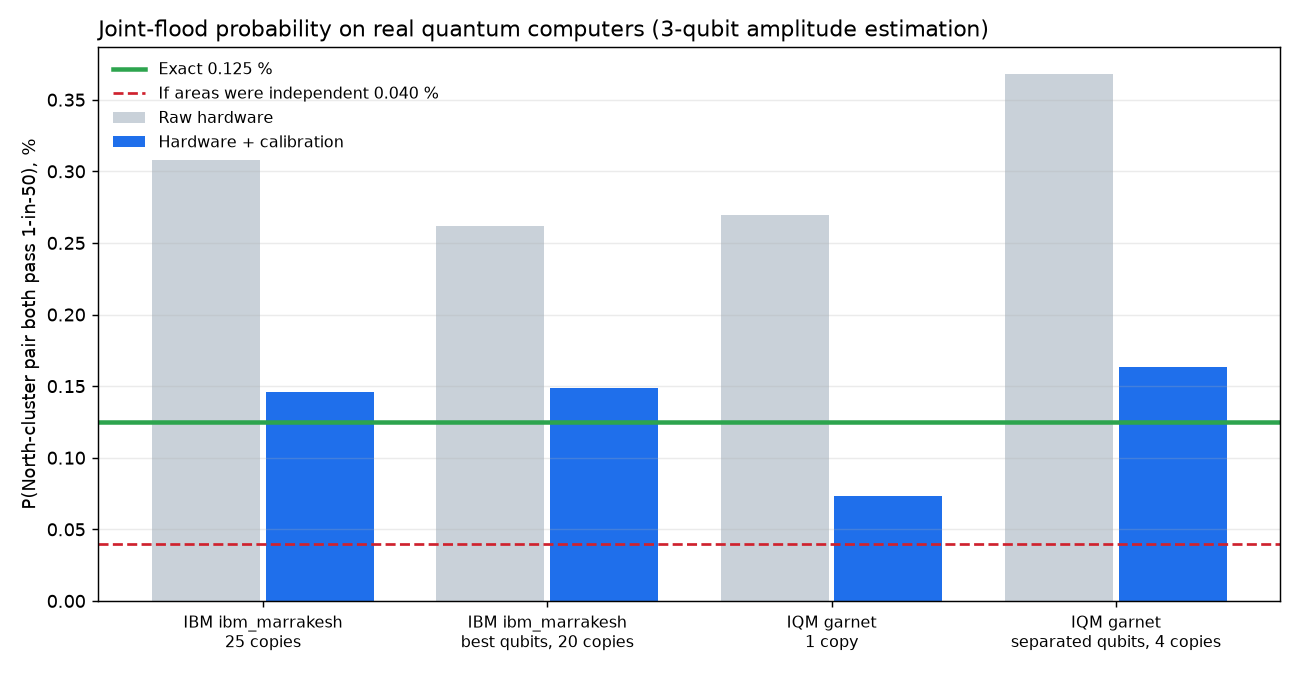
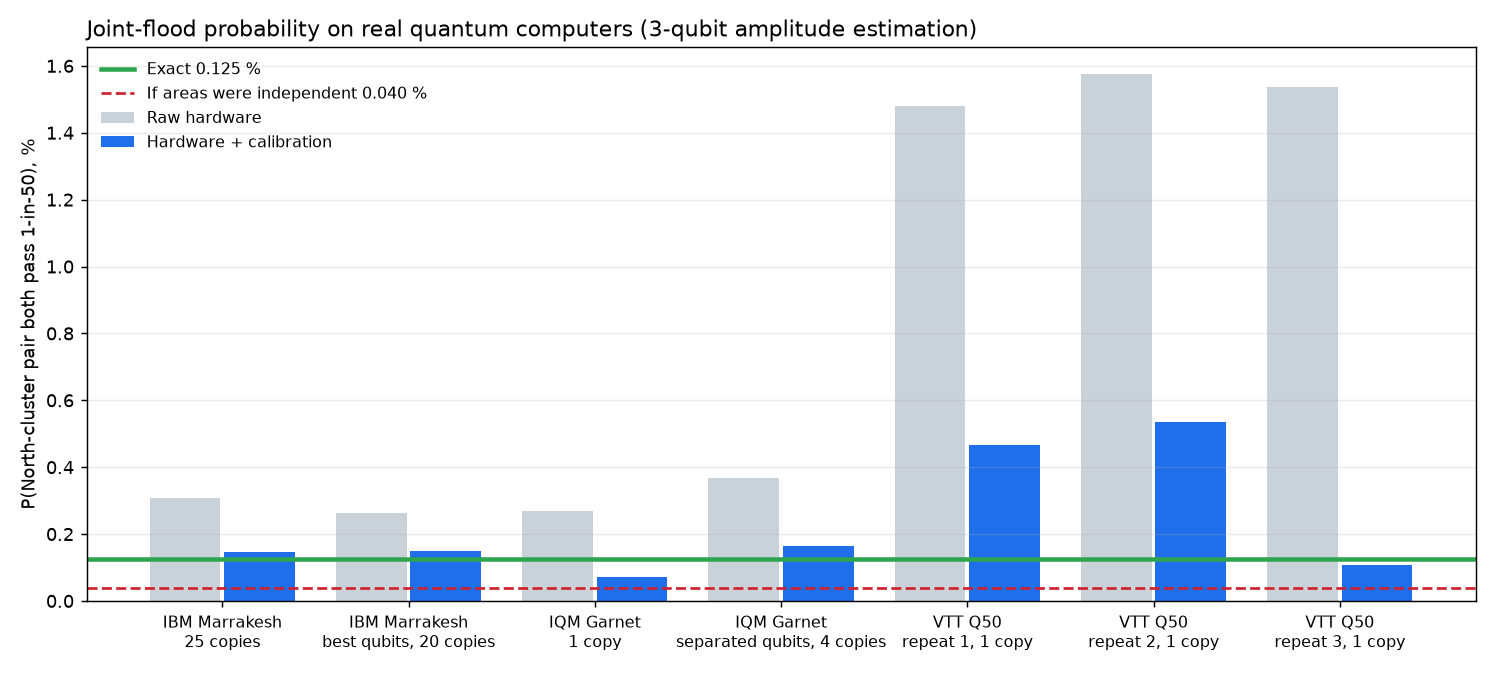
Hardware summary + bootstrap CI: VTT Q50 repeats (per-repeat, mean/range, CIs) and Q50 14-area loader

diff --git a/scripts/hardware_summary.py b/scripts/hardware_summary.py
@@ -1,4 +1,4 @@
-"""Summarise every real-hardware run in out/runs/ into out/HARDWARE_RESULTS.md and out/hardware_results.png."""
+"""Summarise every real-hardware run (IBM, IQM Garnet/Emerald, VTT Q50) in out/runs/ into out/HARDWARE_RESULTS.md and out/hardware_results.png."""
 
 from __future__ import annotations
 
@@ -17,13 +17,15 @@ for f in sorted(glob.glob(str(OUT / "runs" / "*.analysis.json"))):
     run = json.loads(Path(f.replace(".analysis.json", ".json")).read_text())
     for inst, s in json.loads(Path(f).read_text()).items():
         rows.append({
-            "file": name.replace(".analysis.json", ""), "device": run.get("device", run["backend"]),
-            "platform": "IBM" if run["backend"] == "ibm" else ("IQM" if run["backend"] == "iqm" else run["backend"].upper()),
+            "file": name.replace(".analysis.json", ""),
+            "device": "Q50" if run["backend"] == "q50" else run.get("device", run["backend"]),
+            "platform": {"ibm": "IBM", "iqm": "IQM", "q50": "VTT"}.get(run["backend"], run["backend"].upper()),
             "job": ", ".join(run.get("jobs", [])), "created": run["created_utc"], "instance": inst,
             "copies": s.get("copies", 1), "best_qubits": bool(run.get("layout_triples")), "ks": run["ks"],
             "shots": s["shots"], "exact": s["exact"], "raw": s["raw_mlae"], "aware": s["noise_aware_mlae"],
             "per_copy": s.get("noise_aware_per_copy_mlae"), "k0": s["k0_only"],
             "gates": s["two_qubit_gates_by_k"], "mc_same_queries": s["mc_rmse_same_queries"],
+            "gain": s.get("gain_by_k", {}), "offset": s.get("offset_by_k", {}),
         })
 
 pct = lambda x: "–" if x is None else f"{100 * x:.3f} %"  # noqa: E731
@@ -50,6 +52,8 @@ md += ["", "Job ids:", *[f"- {r['platform']} {r['device']} {r['created']}: `{r['
        "- Classical Monte Carlo at the same budget is still more precise. No quantum advantage is claimed.",
        "- 'Best qubits' on IBM uses today's calibration data; IQM publishes none through this API, so there the copies are "
        "only placed on well-separated qubits. The first IQM run had 1 copy (small sample, ±0.05 pp shot noise).",
+       "- VTT Q50 (three repeats, section below) is not there yet: raw readings ~12× exact, amplified circuits keep "
+       "little signal, and the calibrated estimate is not reproducible between repeats.",
        "- The independence line (0.040 %) is what P(both) would be if the two areas flooded independently: every run, "
        "even raw, is far above it, i.e. the hardware reproduces the co-flooding."]
 for f in sorted(glob.glob(str(OUT / "runs" / "loader-iqm-emerald-*.json")) + sorted(glob.glob(str(OUT / "runs" / "loader-ibm-*.json"))) + sorted(glob.glob(str(OUT / "runs" / "loader-q50-*.json")))):
@@ -58,10 +62,19 @@ for f in sorted(glob.glob(str(OUT / "runs" / "loader-iqm-emerald-*.json")) + sor
         continue
     lvl = r.get("level", 0.1)
     lvl_txt = "1-in-10" if abs(lvl - 0.1) < 1e-9 else ("1-in-50" if abs(lvl - 0.02) < 1e-9 else f"p={lvl}")
-    md += ["", f"## Full-scale loader at the {lvl_txt} level: all 14 areas on {r['device']} ({r['qubits']} qubits, {r['two_qubit_gates']} two-qubit gates)",
-           f"Job `{r['jobs'][0]}`, {r['shots']:,} shots, readout flip rates {100*r['readout_p01']:.1f} % / {100*r['readout_p10']:.1f} %. "
-           + ("Chart: `out/loader_emerald.png`." if lvl_txt == "1-in-10" else
-            "At this rare level, gate noise creates false triggers that swamp the true signal: the measured limit of today's hardware."), "",
+    is_q50 = r["backend"] == "q50"
+    if is_q50:
+        note = (f"Same circuit as the Emerald 1-in-10 run, on VTT Q50 (file `{Path(f).name}`). P(≥4 areas): raw "
+                f"{100*r['p_at_least_k_raw'][4]:.1f} %, readout-corrected {100*r['p_at_least_k_readout_corrected'][4]:.1f} % vs exact "
+                f"{100*r['p_at_least_k_exact'][4]:.1f} % (independence {100*r['p_at_least_k_independent'][4]:.1f} %). "
+                "Gate and readout noise dominate on Q50 at this size: the measured limit of this hardware today.")
+    elif lvl_txt == "1-in-10":
+        note = "Chart: `out/loader_emerald.png`."
+    else:
+        note = "At this rare level, gate noise creates false triggers that swamp the true signal: the measured limit of today's hardware."
+    dev = "VTT Q50" if is_q50 else r["device"]
+    md += ["", f"## Full-scale loader at the {lvl_txt} level: all 14 areas on {dev} ({r['qubits']} qubits, {r['two_qubit_gates']} two-qubit gates)",
+           f"Job `{r['jobs'][0]}`, {r['shots']:,} shots, readout flip rates {100*r['readout_p01']:.1f} % / {100*r['readout_p10']:.1f} %. " + note, "",
            (f"| k areas over {lvl_txt} | Hardware (readout-corrected) | Exact model | Independence | Observed 1961–2025 |"),
            "|---|---|---|---|---|"]
     obsd = {}
@@ -71,6 +84,37 @@ for f in sorted(glob.glob(str(OUT / "runs" / "loader-iqm-emerald-*.json")) + sor
     for k in range(2, 8):
         md.append(f"| ≥{k} | {100*r['p_at_least_k_readout_corrected'][k]:.1f} % | {100*r['p_at_least_k_exact'][k]:.1f} % | "
                   f"{100*r['p_at_least_k_independent'][k]:.2f} % | {('%.1f %%' % (100*obsd[k])) if k in obsd else '–'} |")
+q50 = [r for r in rows if r["platform"] == "VTT" and r["instance"].startswith("A3")]
+if q50:
+    est = [r["aware"] for r in q50]
+    g1 = [r["gain"].get("1") for r in q50]
+    offs = " / ".join(f"{r['offset'].get('0', 0):.3f}" for r in q50)
+    other_g1 = [s["gain_by_k"]["1"] for f in sorted(glob.glob(str(OUT / "runs" / "*.analysis.json")))
+                if Path(f).name.startswith(("ibm-ibm", "iqm-garnet", "product-iqm-emerald"))
+                for i, s in json.loads(Path(f).read_text()).items() if i.startswith("A3") and "1" in s.get("gain_by_k", {})]
+    md += ["", "## VTT Q50: three repeats of the 3-qubit pair circuit",
+           f"Run through the LUMI hackathon module. Same North-cluster pair circuit as above (exact {pct(q50[0]['exact'])}), "
+           f"1 copy, {q50[0]['shots'] // len(q50[0]['ks']):,} shots per circuit, k = {', '.join(map(str, q50[0]['ks']))}, "
+           "submitted three times in a row.", "",
+           "| Repeat | Job | k=0 rate | Raw | Calibrated | Bootstrap 90 % CI | Gain by k | Zero offset at k=0 |",
+           "|---|---|---|---|---|---|---|---|"]
+    bci = OUT / "bootstrap_ci.json"  # scripts/bootstrap_ci.py
+    bj = json.loads(bci.read_text()) if bci.exists() else {}
+    for i, r in enumerate(q50, 1):
+        ci = bj.get(f"{(r['file'] + '.json')[:28]}|{r['instance'][:14]}", {}).get("ci90")
+        ci_txt = f"{100*ci[0]:.2f}–{100*ci[1]:.2f} %" if ci else "–"
+        md.append(f"| {i} (`{r['file']}`) | `{r['job']}` | {pct(r['k0'])} | {pct(r['raw'])} | **{pct(r['aware'])}** | {ci_txt} | "
+                  f"{' / '.join(f'{v:.2f}' for v in r['gain'].values())} | {r['offset'].get('0', 0):.4f} |")
+    md += ["", f"Calibrated: mean **{pct(sum(est) / len(est))}**, range **{pct(min(est))} – {pct(max(est))}** vs exact "
+           f"{pct(q50[0]['exact'])}. Raw {pct(min(r['raw'] for r in q50))} – {pct(max(r['raw'] for r in q50))}.",
+           "- **Not reproducible yet.** The three calibrated estimates spread about 5×; the one close to exact is luck, not "
+           "precision. The driver is the zero-calibration offset at k=0, which moved between repeats "
+           f"({offs}).",
+           f"- **Amplification barely survives.** At k=1 (27 two-qubit gates) Q50 kept {min(g1):.2f}–{max(g1):.2f} of the signal; "
+           f"IBM, IQM Garnet and Emerald kept {min(other_g1):.2f}–{max(other_g1):.2f} on the same circuit. At k=2 almost nothing is left.",
+           "- An earlier 4-copy best-qubit attempt (`q50-20261009T144440Z`, job "
+           "`d02bd3b5-ca4a-48f1-9003-da506d4b7607`, 4,000 shots) was submitted but result retrieval failed "
+           "(BadRequestError): no data."]
 snow = sorted(glob.glob(str(OUT / "runs" / "product-iqm-emerald-*.analysis.json")))
 if snow:
     d = json.loads(Path(snow[-1]).read_text())
@@ -107,9 +151,12 @@ matplotlib.use("Agg")
 import matplotlib.pyplot as plt  # noqa: E402
 
 a3 = [r for r in rows if r["instance"].startswith("A3")]
-fig, ax = plt.subplots(figsize=(10, 5.2))
-labels = [f"{r['platform']} {r['device']}\n{('best qubits, ' if r['platform'] == 'IBM' else 'separated qubits, ') if r['best_qubits'] else ''}{r['copies']} cop{'ies' if r['copies'] > 1 else 'y'}"
+fig, ax = plt.subplots(figsize=(11.5, 5.2))
+vtt = [x for x in a3 if x["platform"] == "VTT"]
+rep_txt = lambda r: f"repeat {vtt.index(r) + 1}, " if r in vtt else ""  # noqa: E731
+labels = [f"{r['platform']} {r['device']}\n{rep_txt(r)}{('best qubits, ' if r['platform'] == 'IBM' else 'separated qubits, ') if r['best_qubits'] else ''}{r['copies']} cop{'ies' if r['copies'] > 1 else 'y'}"
           for r in a3]
+labels = [lab.replace("ibm_marrakesh", "Marrakesh").replace("garnet", "Garnet") for lab in labels]
 x = range(len(a3))
 ax.bar([i - 0.2 for i in x], [100 * r["raw"] for r in a3], 0.38, color="#c9d1d9", label="Raw hardware")
 ax.bar([i + 0.2 for i in x], [100 * r["aware"] for r in a3], 0.38, color="#1f6feb",

diff --git a/scripts/bootstrap_ci.py b/scripts/bootstrap_ci.py
@@ -75,4 +75,10 @@ if snow:
                                        "exact": res["emerald snow high"]["exact"]/res["emerald snow low"]["exact"]}
     print("snow ratio high/low:", res["snow_ratio_high_over_low"])
     do(f, "A3_kittila_ivalo_both_clim", "emerald snow normal")  # last, so the intervals above keep their RNG stream
+for f in sorted(f for f in runs if f.startswith("q50-")):  # VTT Q50 repeats; after the rest so their RNG stream is unchanged
+    run = json.loads(Path(runs[f]).read_text())
+    if not any("counts" in c for c in run["circuits"]):
+        continue          # q50-20261009T144440Z: result retrieval failed, no counts
+    for inst in sorted({c["instance"] for c in run["circuits"]}):
+        do(f, inst, f"{f[:28]}|{inst[:14]}")
 (ROOT/"out"/"bootstrap_ci.json").write_text(json.dumps(res, indent=2, default=float))

diff --git a/out/HARDWARE_RESULTS.md b/out/HARDWARE_RESULTS.md
@@ -10,18 +10,25 @@ Generated by `scripts/hardware_summary.py` from `out/runs/`. Exact values come f
 | IQM garnet (20261008T1821) | North-cluster pair, both | 1 | 18,000 | 0.125 % | 0.269 % | **0.073 %** | 0.183 % | 4/29/50 | ±0.015 pp |
 | IQM garnet (20261008T1821) | ≥2 of 3 North-cluster rivers | 1 | 18,000 | 0.359 % | 1.070 % | **0.432 %** | 0.967 % | 6/43/83 | ±0.026 pp |
 | IQM garnet (20261008T1825) best qubits | North-cluster pair, both | 4 | 120,000 | 0.125 % | 0.368 % | **0.164 %** | 0.335 % | 4/26/53 | ±0.006 pp |
+| VTT Q50 (20261009T1450) | North-cluster pair, both | 1 | 6,000 | 0.125 % | 1.479 % | **0.465 %** | 0.750 % | 4/27/46 | ±0.026 pp |
+| VTT Q50 (20261009T1451) | North-cluster pair, both | 1 | 6,000 | 0.125 % | 1.577 % | **0.534 %** | 0.800 % | 4/27/46 | ±0.026 pp |
+| VTT Q50 (20261009T1451) | North-cluster pair, both | 1 | 6,000 | 0.125 % | 1.536 % | **0.107 %** | 0.800 % | 4/27/46 | ±0.026 pp |
 
 Job ids:
 - IBM ibm_marrakesh 20261008T170341Z: `db3sssqmb58s7388bb00`
 - IBM ibm_marrakesh 20261008T174523Z: `db3tddsvf2bc73ctoprg`
 - IQM garnet 20261008T182125Z: `01a11cbf-bb06-7672-a667-c85255613143`
 - IQM garnet 20261008T182534Z: `01a11cc3-7f6c-711e-a732-81b7eda761ec`
+- VTT Q50 20261009T145044Z: `7d20d8ac-1fad-4ecd-951d-6ae4b86055ca`
+- VTT Q50 20261009T145110Z: `a6fb9d52-611a-4a6f-bd1c-b1ae18650287`
+- VTT Q50 20261009T145135Z: `381179fb-a718-402c-afe4-e775300f2c4a`
 
 ## What it shows
 - Both IBM and IQM hardware run the joint-flood amplitude-estimation circuit; raw readings are 2–3× the exact value (readout errors and gate noise), and the two-circuit calibration removes most of that bias.
 - Shallow circuits survive (3 qubits, ≤ ~50 two-qubit gates); the deeper 4-qubit amplified circuits lose most of their signal, especially on IBM. That is the measured limit of today's hardware.
 - Classical Monte Carlo at the same budget is still more precise. No quantum advantage is claimed.
 - 'Best qubits' on IBM uses today's calibration data; IQM publishes none through this API, so there the copies are only placed on well-separated qubits. The first IQM run had 1 copy (small sample, ±0.05 pp shot noise).
+- VTT Q50 (three repeats, section below) is not there yet: raw readings ~12× exact, amplified circuits keep little signal, and the calibrated estimate is not reproducible between repeats.
 - The independence line (0.040 %) is what P(both) would be if the two areas flooded independently: every run, even raw, is far above it, i.e. the hardware reproduces the co-flooding.
 
 ## Full-scale loader at the 1-in-10 level: all 14 areas on emerald (18 qubits, 44 two-qubit gates)
@@ -47,6 +54,32 @@ Job `01a11f9b-c62a-7026-a22d-67b26167cf26`, 20,000 shots, readout flip rates 0.4
 | ≥5 | 0.2 % | 0.0 % | 0.00 % | – |
 | ≥6 | 0.0 % | 0.0 % | 0.00 % | – |
 | ≥7 | 0.0 % | 0.0 % | 0.00 % | – |
+
+## Full-scale loader at the 1-in-10 level: all 14 areas on VTT Q50 (18 qubits, 49 two-qubit gates)
+Job `9cdb0158-7574-4ed3-b077-c8a2d47a1186`, 8,000 shots, readout flip rates 2.1 % / 3.4 %. Same circuit as the Emerald 1-in-10 run, on VTT Q50 (file `loader-q50-q50-20261009T144517Z.json`). P(≥4 areas): raw 34.2 %, readout-corrected 31.2 % vs exact 10.9 % (independence 4.4 %). Gate and readout noise dominate on Q50 at this size: the measured limit of this hardware today.
+
+| k areas over 1-in-10 | Hardware (readout-corrected) | Exact model | Independence | Observed 1961–2025 |
+|---|---|---|---|---|
+| ≥2 | 75.2 % | 37.9 % | 41.58 % | 41.5 % |
+| ≥3 | 51.8 % | 21.6 % | 15.86 % | 18.5 % |
+| ≥4 | 31.2 % | 10.9 % | 4.42 % | 15.4 % |
+| ≥5 | 17.1 % | 4.8 % | 0.93 % | 7.7 % |
+| ≥6 | 7.4 % | 1.9 % | 0.15 % | 1.5 % |
+| ≥7 | 2.7 % | 0.6 % | 0.02 % | 0.0 % |
+
+## VTT Q50: three repeats of the 3-qubit pair circuit
+Run through the LUMI hackathon module. Same North-cluster pair circuit as above (exact 0.125 %), 1 copy, 2,000 shots per circuit, k = 0, 1, 2, submitted three times in a row.
+
+| Repeat | Job | k=0 rate | Raw | Calibrated | Bootstrap 90 % CI | Gain by k | Zero offset at k=0 |
+|---|---|---|---|---|---|---|---|
+| 1 (`q50-20261009T145044Z`) | `7d20d8ac-1fad-4ecd-951d-6ae4b86055ca` | 0.750 % | 1.479 % | **0.465 %** | 0.17–0.80 % | 1.06 / 0.19 / 0.05 | 0.0020 |
+| 2 (`q50-20261009T145110Z`) | `a6fb9d52-611a-4a6f-bd1c-b1ae18650287` | 0.800 % | 1.577 % | **0.534 %** | 0.20–0.86 % | 1.10 / 0.13 / 0.05 | 0.0020 |
+| 3 (`q50-20261009T145135Z`) | `381179fb-a718-402c-afe4-e775300f2c4a` | 0.800 % | 1.536 % | **0.107 %** | 0.00–0.48 % | 1.11 / 0.12 / 0.06 | 0.0060 |
+
+Calibrated: mean **0.369 %**, range **0.107 % – 0.534 %** vs exact 0.125 %. Raw 1.479 % – 1.577 %.
+- **Not reproducible yet.** The three calibrated estimates spread about 5×; the one close to exact is luck, not precision. The driver is the zero-calibration offset at k=0, which moved between repeats (0.002 / 0.002 / 0.006).
+- **Amplification barely survives.** At k=1 (27 two-qubit gates) Q50 kept 0.12–0.19 of the signal; IBM, IQM Garnet and Emerald kept 0.56–0.88 on the same circuit. At k=2 almost nothing is left.
+- An earlier 4-copy best-qubit attempt (`q50-20261009T144440Z`, job `d02bd3b5-ca4a-48f1-9003-da506d4b7607`, 4,000 shots) was submitted but result retrieval failed (BadRequestError): no data.
 
 ## The March snow signal, measured on IQM Emerald
 Two-river North-cluster pair both over 1-in-50, 3 qubits, 10 side-by-side copies, 240,000 shots per instance (run by Vaishnav, `product-iqm-emerald-20261009T075338Z`).
